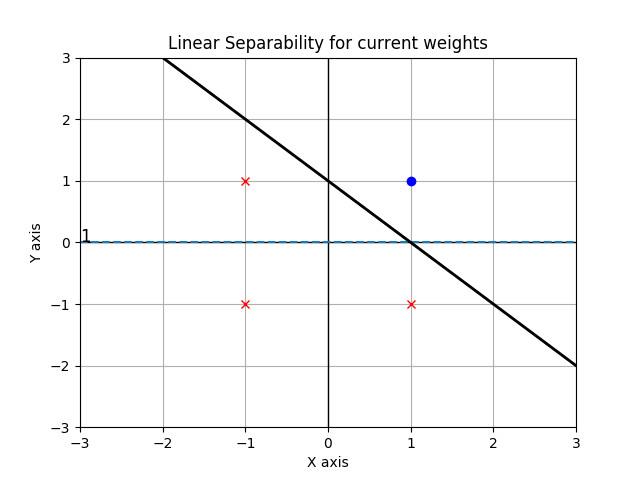
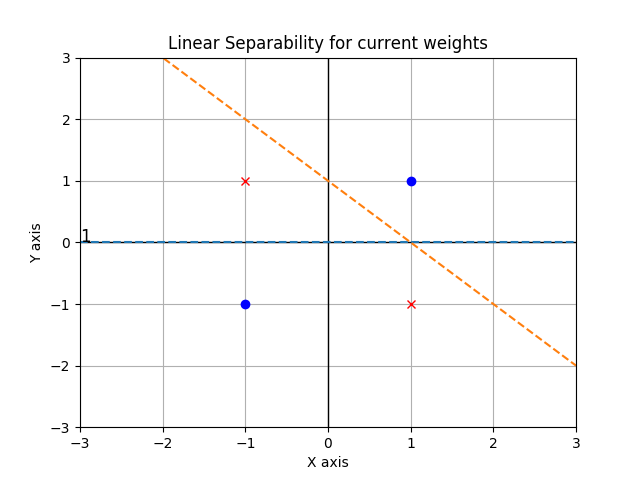
minor changes

diff --git a/soft-computing/twoinphebb.py b/soft-computing/twoinphebb.py
@@ -103,11 +103,12 @@ def drawgraph(weights,finalweights,actualop,feature1,feature2):
         it += 1
 
     # redraw the final linear separable line in solid black
-    sl = -finalweights[0]/finalweights[1]
-    inte = -finalweights[2]/finalweights[1]
-    y_vals = inte + sl * x_vals
-    plt.plot(x_vals, y_vals,color='black', linewidth=2.0)
-    plt.text(x_vals[0],y_vals[0],s,fontsize=12)
+    if(finalweights[1] != 0):
+        sl = -finalweights[0]/finalweights[1]
+        inte = -finalweights[2]/finalweights[1]
+        y_vals = inte + sl * x_vals
+        plt.plot(x_vals, y_vals,color='black', linewidth=2.0)
+        plt.text(x_vals[0],y_vals[0],s,fontsize=12)
 
 
     # store the figure
